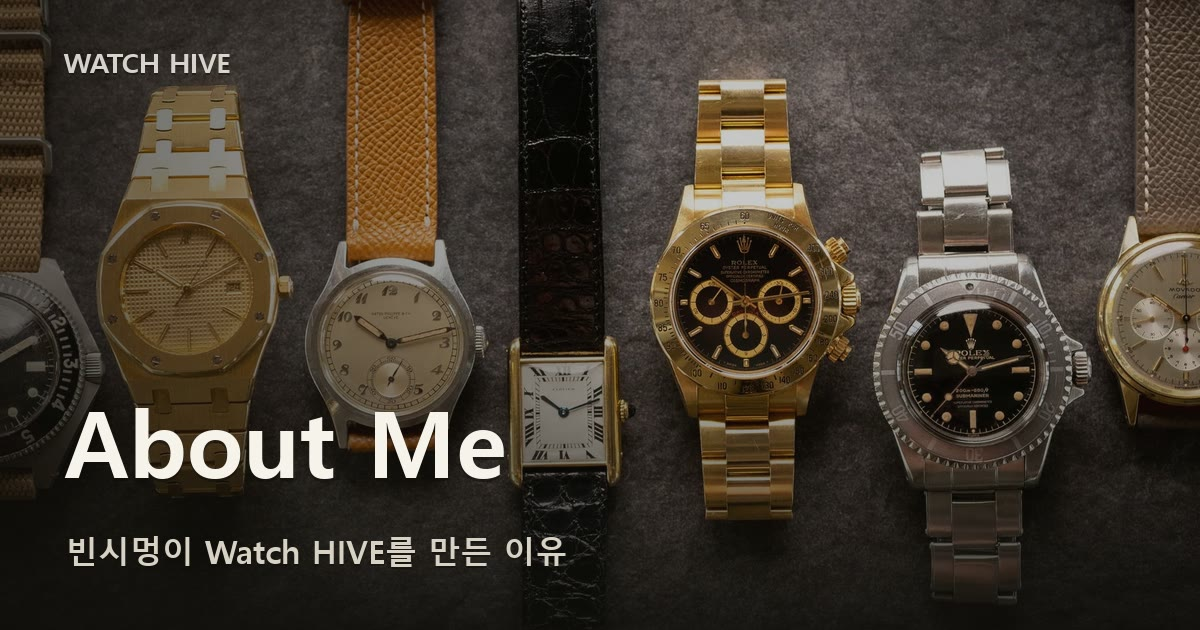
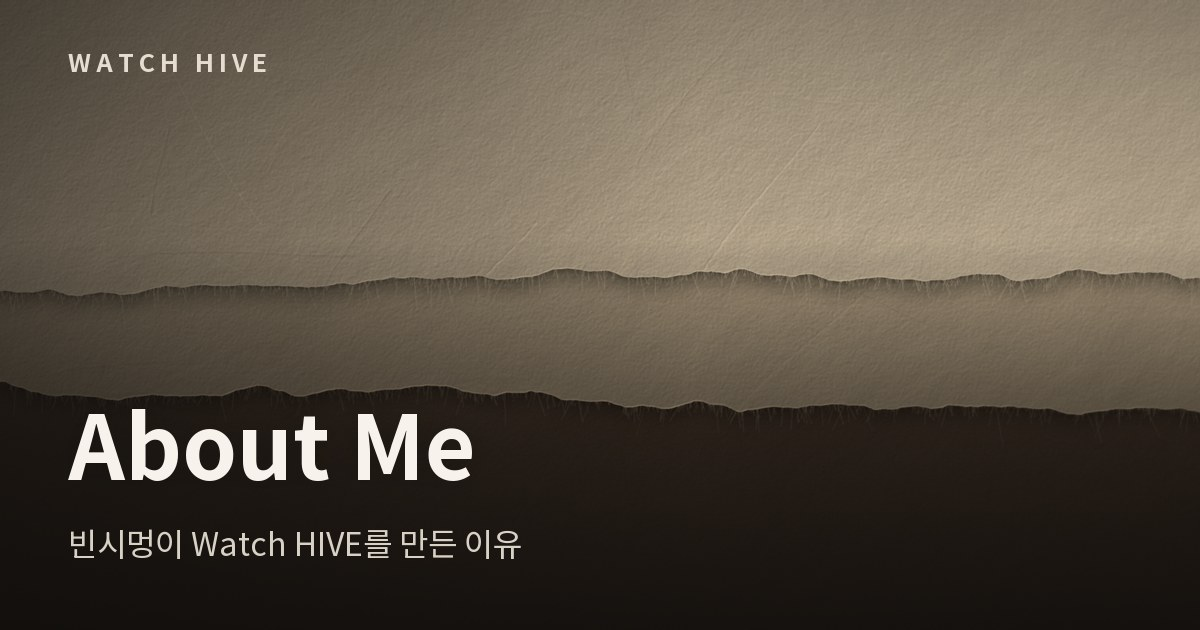
style(hero): Videos·About Me 현판을 수제 종이로 다시 구움
코튼랙 계열 수제 종이를 절차적으로 만들어(펄프 뭉침·섬유·찢긴 결·사광 음영·그레인)
2.4:1 원판 한 장을 뽑고, 폭별 판과 OG 카드를 모두 거기서 잘라냈다.

- Videos: 쓰던 스트랩 사진을 그 종이에 인화한 판. 잉크가 곱연산이라 밝은 곳에는
  종이 결이 그대로 비친다.
- About Me: 사진 없이 종이만, 한 톤 눌러 Videos 와 구분되게.
- OG 도 같은 원판에서 1200x630 으로 잘라 기존 카드와 같은 조판으로 다시 구웠다.
- About Me 는 원본 사진 해상도(2048) 제약이 사라져 다른 페이지와 같은
  800/1400/2000/2800 한 벌이 되었다 — widths prop 과 2048 판을 걷어냄.
- 사진이 바뀌었으므로 alt 와 og:image:alt 도 실제 그림을 가리키도록 교체.

diff --git a/src/pages/AboutMe.tsx b/src/pages/AboutMe.tsx
@@ -11,13 +11,11 @@ export default function AboutMe() {
   return (
     <>
       <PageHead {...PAGE_META.aboutMe} />
-      {/* 원본이 2048px 이라 확대 없이 만들 수 있는 판이 여기까지다 */}
       <PageHero
         title="About Me"
         subtitle="&ldquo;조금 느릴 수 있지만, 꾸준하게 더 많은 시계 정보와 영상을 전달하는 채널이 되고 싶어요.&rdquo;"
         imgBase="about_me_hero"
-        alt="어두운 석판 위에 나란히 놓인 빈티지 시계 일곱 점"
-        widths={[800, 1400, 2048]}
+        alt="짙은 판 위에 손으로 찢어 겹쳐 놓은 핸드메이드 종이"
       />
       <main className="container mx-auto mt-8 px-0 md:px-0 py-8">
         <section className="mb-12 text-center max-w-4xl mx-auto px-6 md:px-12">

diff --git a/src/pages/Videos.tsx b/src/pages/Videos.tsx
@@ -15,7 +15,7 @@ export default function Videos() {
         title="Videos"
         subtitle="빈티지 시계 리뷰와 시계 헌팅 영상"
         imgBase="videos_hero"
-        alt="베이지색 바탕에 나란히 놓인 가죽 시계 스트랩 여러 개"
+        alt="핸드메이드 종이에 인화한 가죽 시계 스트랩 사진"
       />
       <main className="container mx-auto mt-8 px-6 md:px-12 py-8">
         <section>
